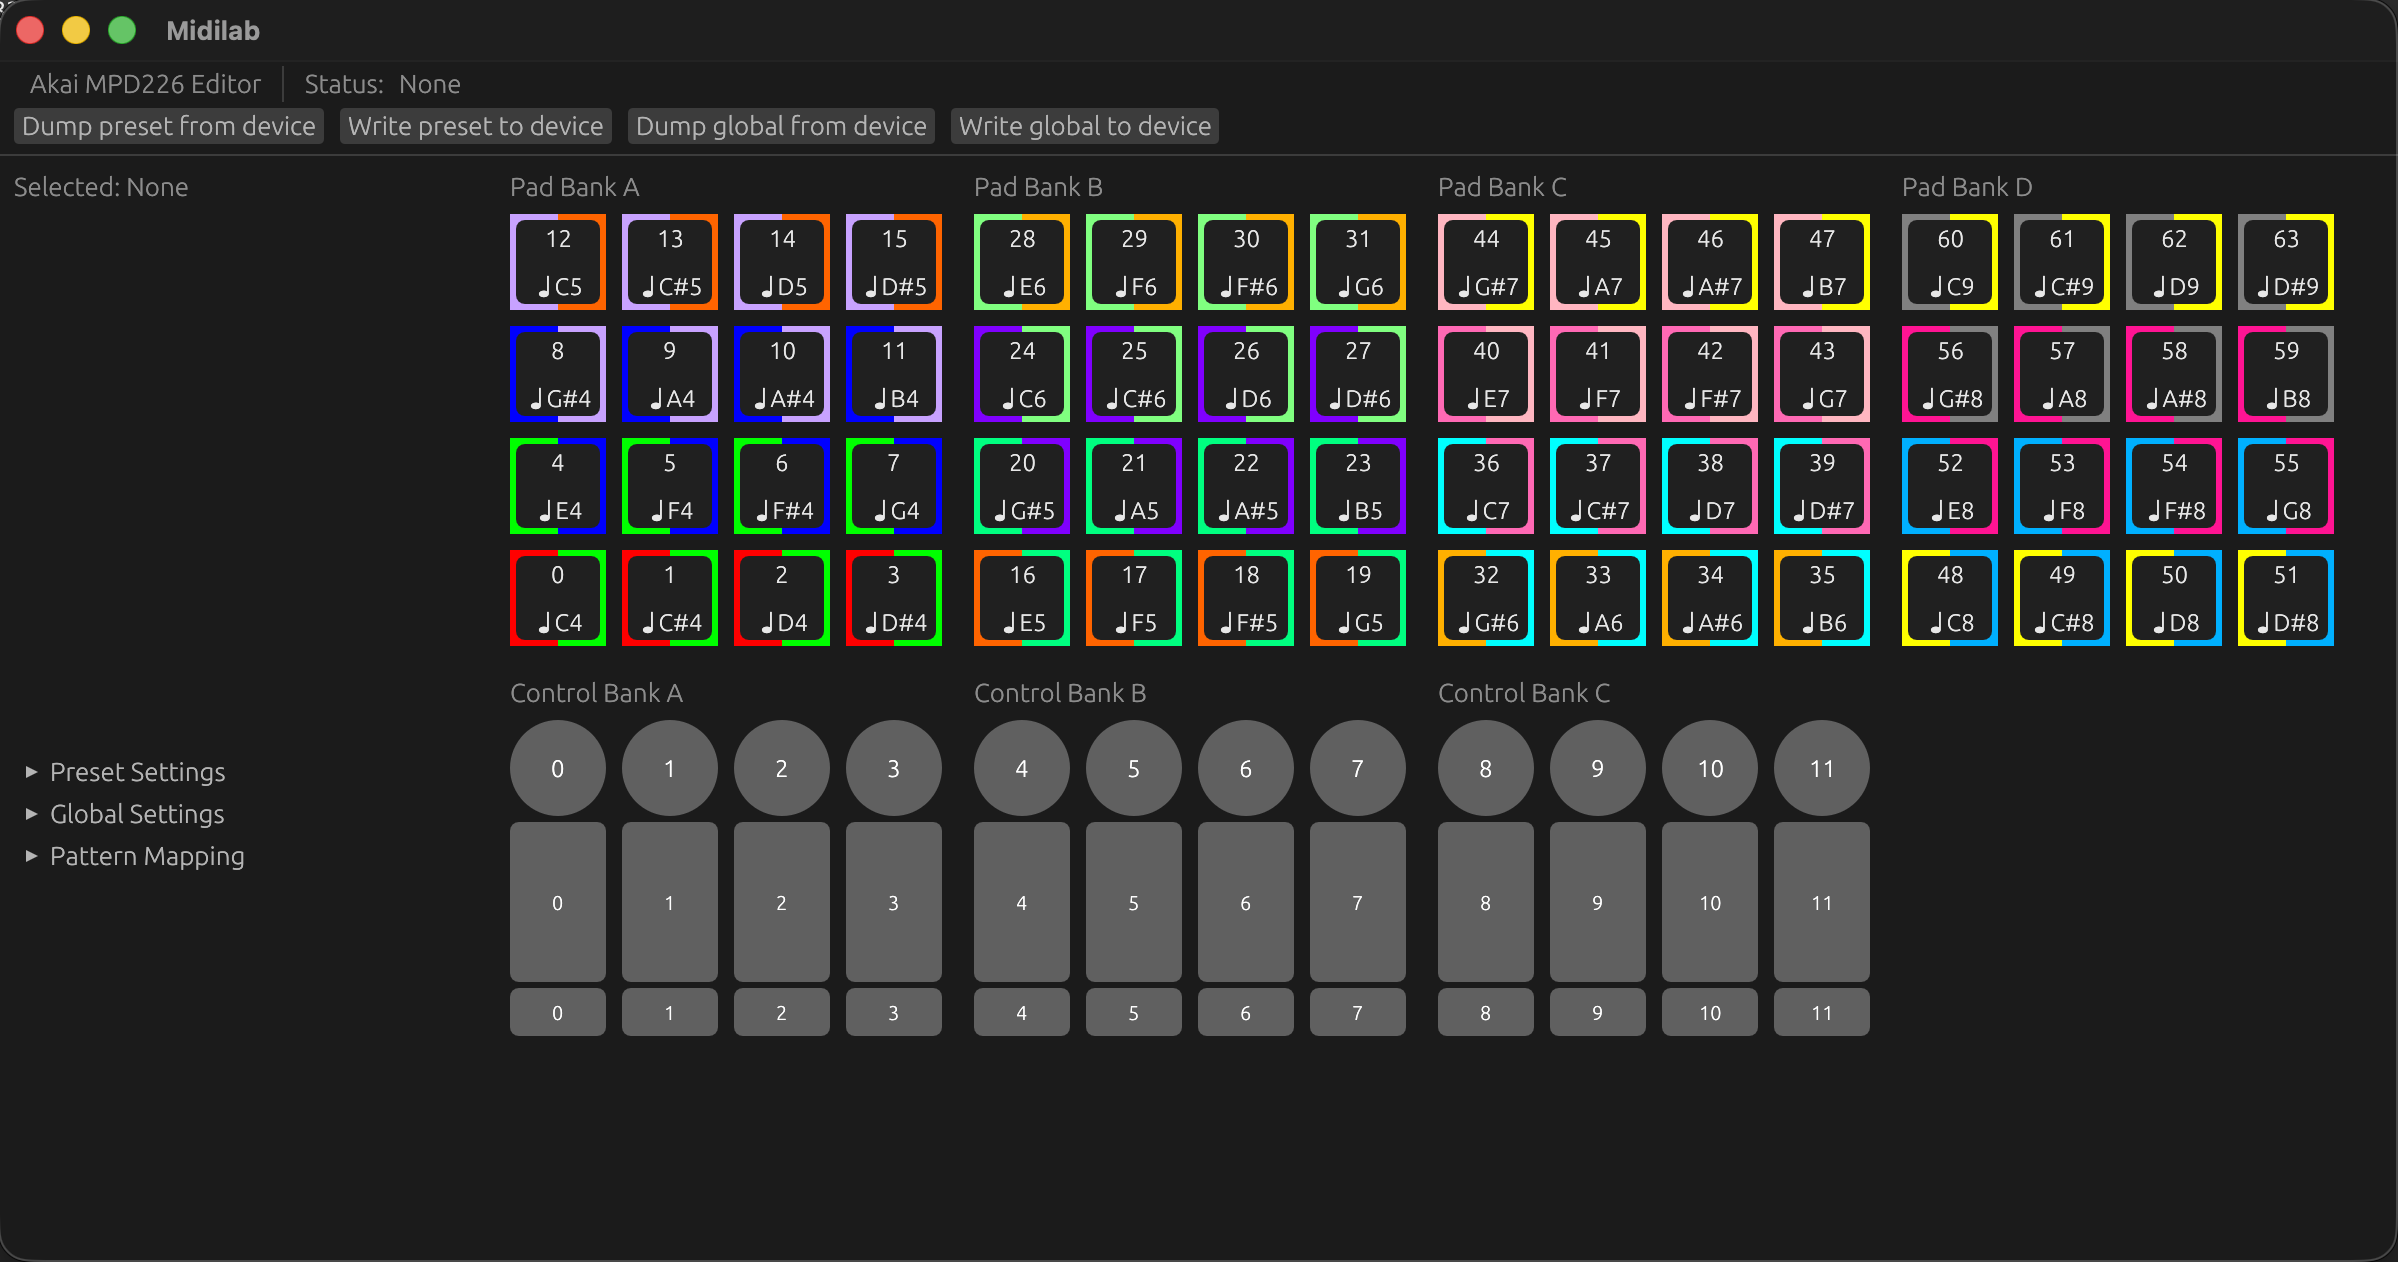
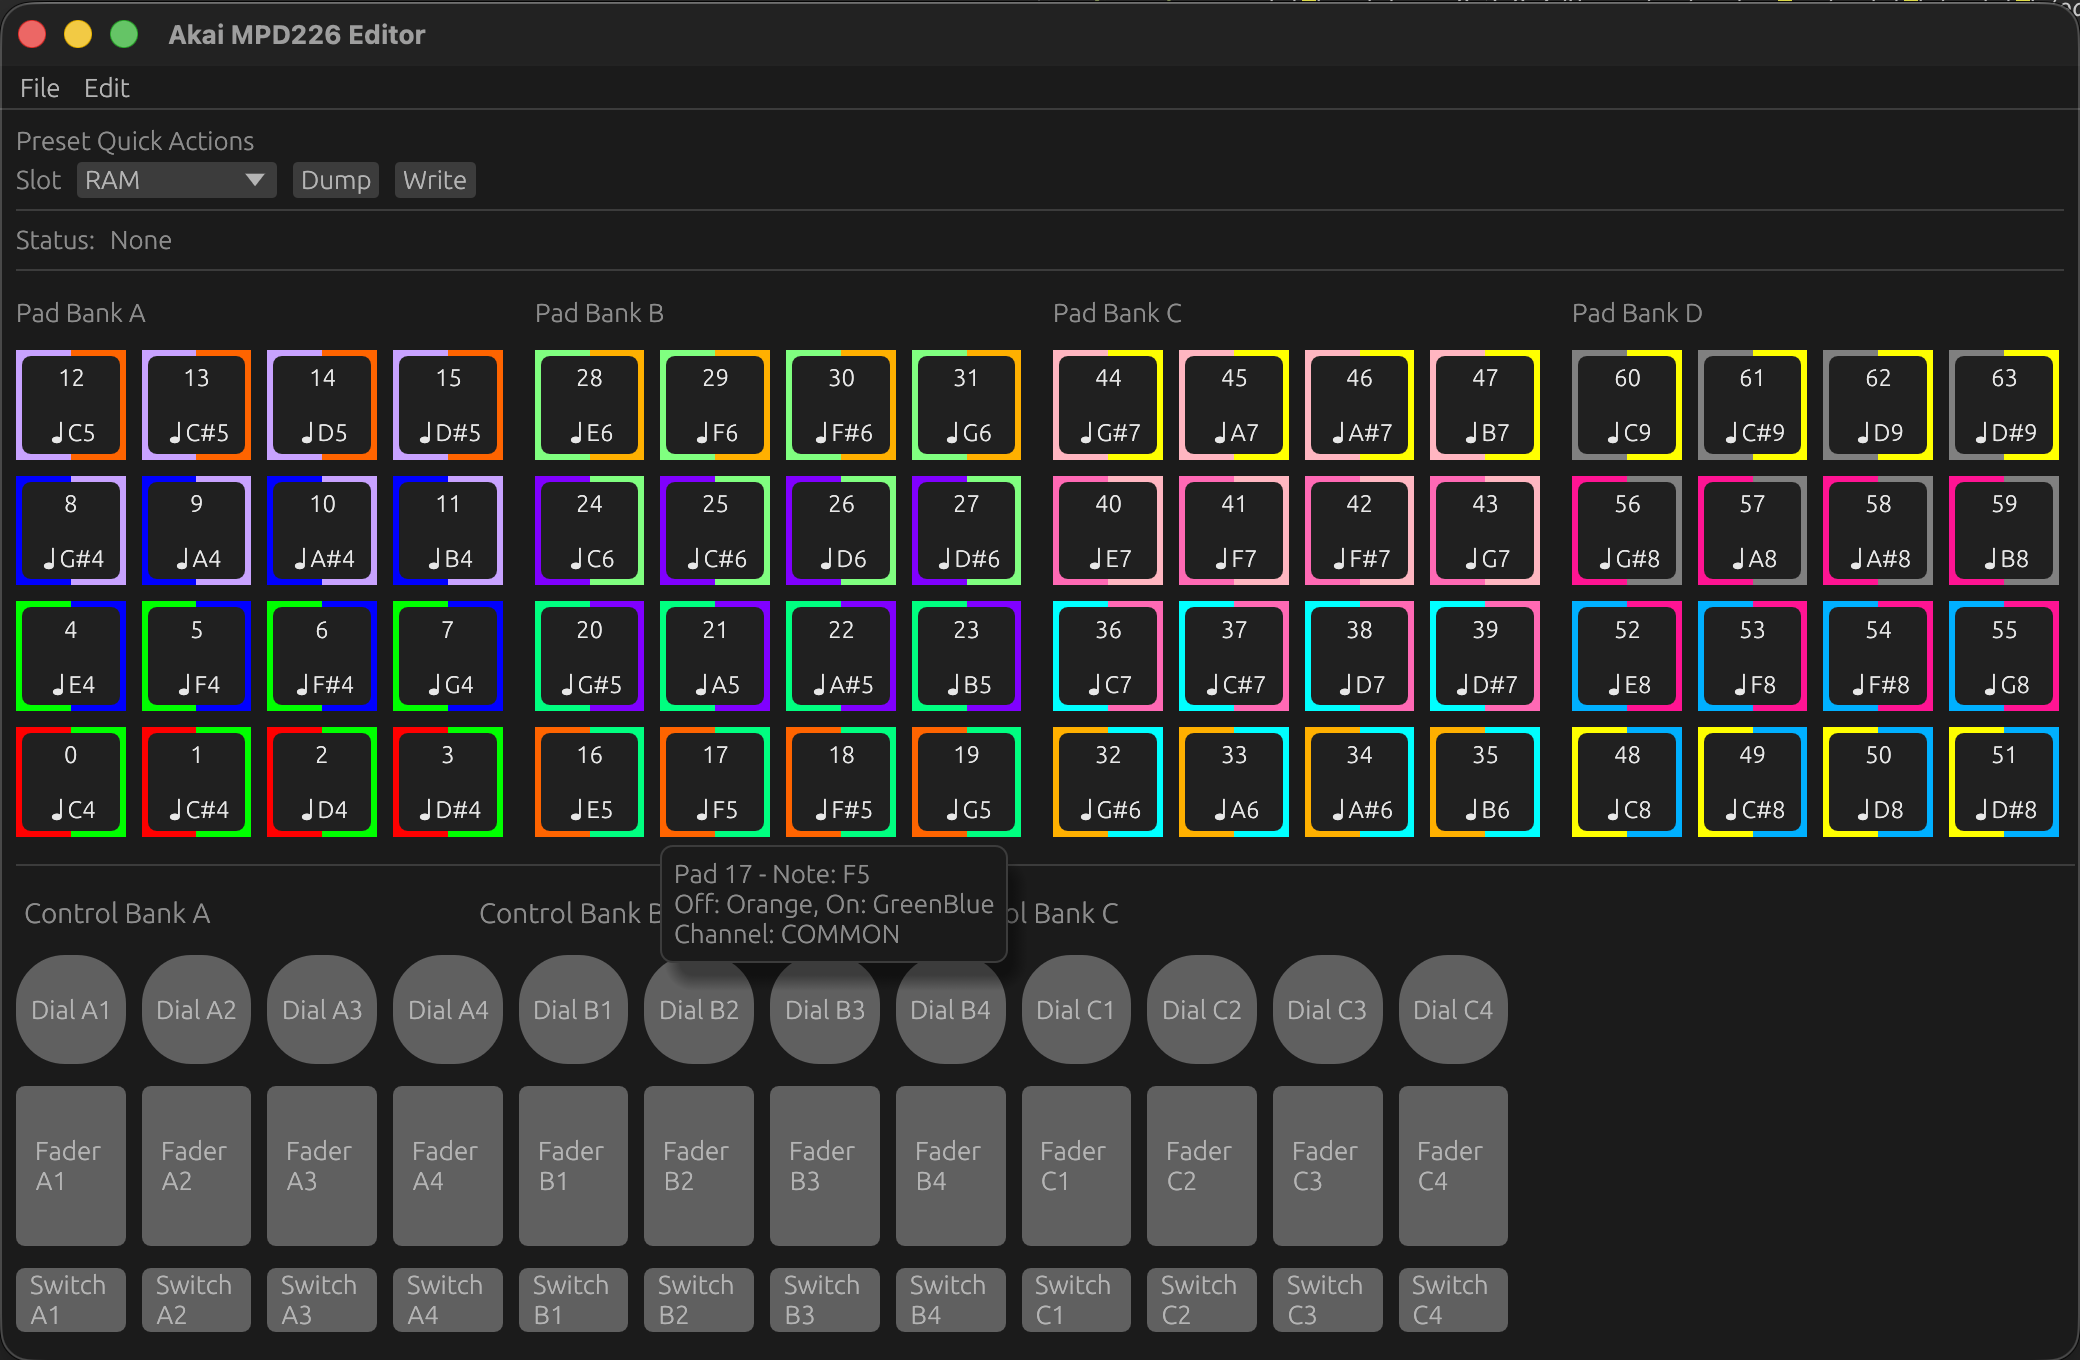
Improve gui spacing (#60)

diff --git a/gui/src/akai_mpd226_editor.rs b/gui/src/akai_mpd226_editor.rs
@@ -14,6 +14,7 @@ use eframe::egui::Grid;
 use eframe::egui::Layout;
 use eframe::egui::MenuBar;
 use eframe::egui::Rect;
+use eframe::egui::Sense;
 use eframe::egui::TextEdit;
 use eframe::egui::TopBottomPanel;
 use eframe::egui::Ui;
@@ -54,21 +55,44 @@ use midilab::music::SequenceDirection;
 use tokio::sync::mpsc::UnboundedReceiver;
 use tokio::sync::mpsc::UnboundedSender;
 
-const APP_X: f32 = 1024.;
-const APP_Y: f32 = 600.;
+const PHI: f32 = 1.618_034;
+
+const fn powi_i32(mut base: f32, mut exp: i32) -> f32 {
+    let mut acc = 1.0;
+    if exp < 0 {
+        base = 1.0 / base;
+        exp = -exp;
+    }
+    let mut e = exp as u32;
+    while e > 0 {
+        if e & 1 == 1 {
+            acc *= base;
+        }
+        base *= base;
+        e >>= 1;
+    }
+    acc
+}
+
+const fn spacing(n: i32) -> f32 {
+    8.0 * powi_i32(PHI, n)
+}
+
+const APP_X: f32 = spacing(0) * 130.;
+const APP_Y: f32 = spacing(0) * 81.;
 pub const APP_DIMENSIONS: Vec2 = Vec2 { x: APP_X, y: APP_Y };
 
-const DEFAULT_CONTROL_X: f32 = 42.;
+const DEFAULT_CONTROL_X: f32 = spacing(4);
 
-const PAD_X: f32 = 48.;
-const PAD_Y: f32 = 48.;
+const PAD_X: f32 = spacing(4);
+const PAD_Y: f32 = spacing(4);
 const PAD_DIMENSIONS: Vec2 = Vec2 { x: PAD_X, y: PAD_Y };
 
-const PAD_X_SPACING: f32 = 8.;
+const PAD_X_SPACING: f32 = spacing(0);
 const PAD_Y_SPACING: f32 = 8.;
 
 const DIAL_X: f32 = DEFAULT_CONTROL_X;
-const DIAL_Y: f32 = 40.;
+const DIAL_Y: f32 = DEFAULT_CONTROL_X;
 const DIAL_DIMENSIONS: Vec2 = Vec2 {
     x: DIAL_X,
     y: DIAL_Y,
@@ -91,19 +115,8 @@ const SWITCH_DIMENSIONS: Vec2 = Vec2 {
 const BANKS: [&str; 4] = ["A", "B", "C", "D"];
 const CONTROL_BANKS: [&str; 3] = ["A", "B", "C"];
 
-// There is some extra space I haven't tracked down yet that happens
-// to be 24., which is also half of the control x.
-const CONTROL_BANK_X_ADJUSTMENT: f32 = DEFAULT_CONTROL_X * 0.5;
-const CONTROL_BANK_X: f32 = DEFAULT_CONTROL_X * 4. + CONTROL_BANK_X_ADJUSTMENT;
-
-#[expect(
-    unused,
-    reason = "its hip, its cool, we're going to want to make the app look nice one day"
-)]
-fn spacing(n: i32) -> f32 {
-    let phi = (1.0 + 5_f32.sqrt()) / 2.0;
-    8_f32 * phi.powi(n)
-}
+// const CONTROL_BANK_X_ADJUSTMENT: f32 = DEFAULT_CONTROL_X * 0.5;
+const CONTROL_BANK_X: f32 = DEFAULT_CONTROL_X * 4.; // + CONTROL_BANK_X_ADJUSTMENT;
 
 pub struct AkaiMpd226Editor {
     ui_state: UiState,
@@ -681,12 +694,14 @@ fn render_pad_bank(
     label: String,
 ) {
     ui.vertical(|ui| {
+        ui.add_space(spacing(0));
         ui.label(format!("Pad Bank {label}"));
+        ui.add_space(spacing(0));
 
         let grid_rect = ui
             .allocate_exact_size(
                 Vec2::new((PAD_X + PAD_X_SPACING) * 4., (PAD_Y + PAD_Y_SPACING) * 4.),
-                egui::Sense::hover(),
+                Sense::empty(),
             )
             .0;
         let top_left = grid_rect.min;
@@ -694,7 +709,6 @@ fn render_pad_bank(
         let rows = pads.chunks(4);
         for (row_idx, row) in rows.enumerate() {
             for (pad_idx, pad) in row.iter().enumerate() {
-                // todo pad spacing here, but we need to calc it :(
                 let visual_row = 3 - row_idx;
                 let x = top_left.x + pad_idx as f32 * (PAD_X) + (pad_idx as f32 * PAD_X_SPACING);
                 let y =
@@ -798,6 +812,8 @@ fn render_controls(ui: &mut Ui, ui_state: &mut UiState) {
     let switches = ui_state.preset.switches;
 
     render_all_pad_banks(ui, &mut ui_state.selected_item, pads);
+    ui.separator();
+    ui.add_space(spacing(0));
     render_all_control_banks(ui, &mut ui_state.selected_item, dials, faders, switches);
 }
 
@@ -822,6 +838,8 @@ fn render_all_control_banks(
         }
     });
 
+    ui.add_space(spacing(0));
+
     ui.horizontal_top(|ui| {
         for bank_idx in 0..3 {
             for dial_offset in 0..4 {
@@ -832,6 +850,8 @@ fn render_all_control_banks(
         }
     });
 
+    ui.add_space(spacing(0));
+
     ui.horizontal_top(|ui| {
         for bank_idx in 0..3 {
             for fader_offset in 0..4 {
@@ -841,6 +861,8 @@ fn render_all_control_banks(
             }
         }
     });
+
+    ui.add_space(spacing(0));
 
     ui.horizontal_top(|ui| {
         for bank_idx in 0..3 {

diff --git a/editor/tests/akai_mpd226_ui_test.rs b/editor/tests/akai_mpd226_ui_test.rs
@@ -1,7 +1,8 @@
 use eframe::egui::Key;
-use egui_kittest::Harness;
+use egui_kittest::HarnessBuilder;
 use egui_kittest::kittest::Queryable;
 use midilab_gui::AkaiMpd226Editor;
+use midilab_gui::akai_mpd226_editor::APP_DIMENSIONS;
 use tokio::sync::mpsc::unbounded_channel;
 
 #[test]
@@ -10,12 +11,14 @@ fn test_modal_for_different_control_types() {
     let (_ui_tx, ui_rx) = unbounded_channel();
     let app = AkaiMpd226Editor::new(app_tx, ui_rx);
 
-    let mut harness = Harness::new_state(
-        |ctx, app: &mut AkaiMpd226Editor| {
-            app.render_ui(ctx);
-        },
-        app,
-    );
+    let mut harness = HarnessBuilder::default()
+        .with_size(APP_DIMENSIONS)
+        .build_state(
+            |ctx, app: &mut AkaiMpd226Editor| {
+                app.render_ui(ctx);
+            },
+            app,
+        );
 
     harness.get_by_label("Pad 0").click();
     harness.run();
